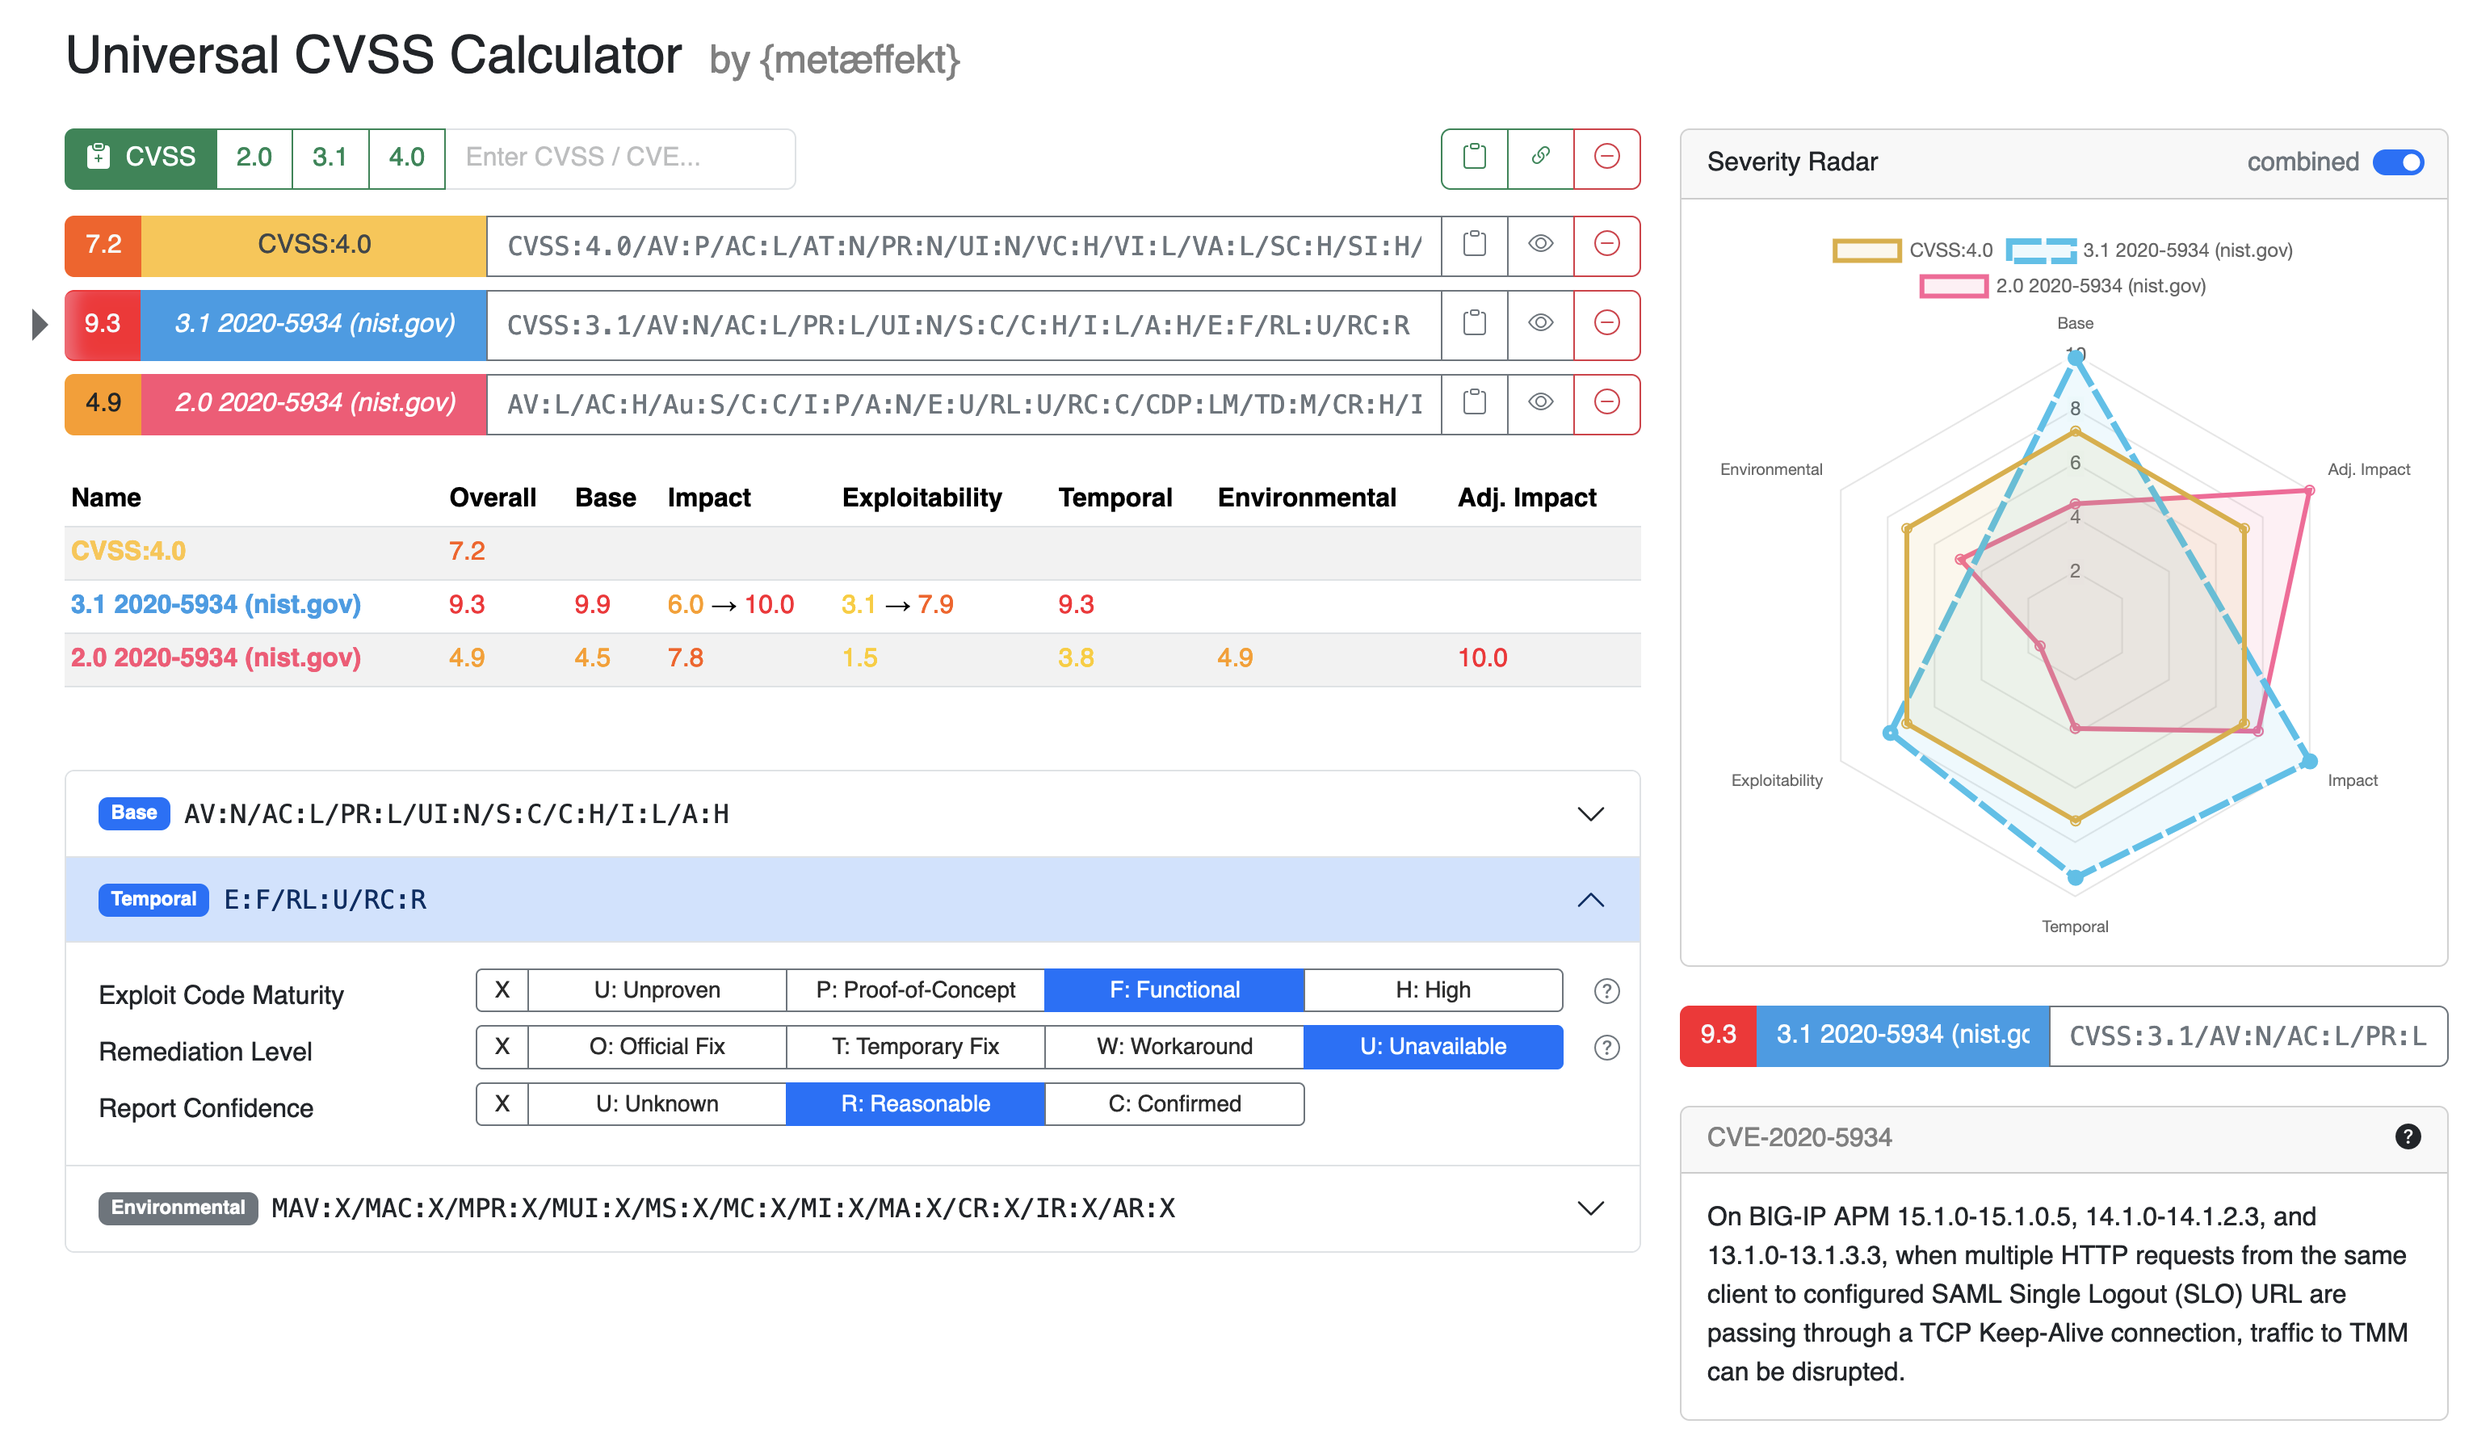
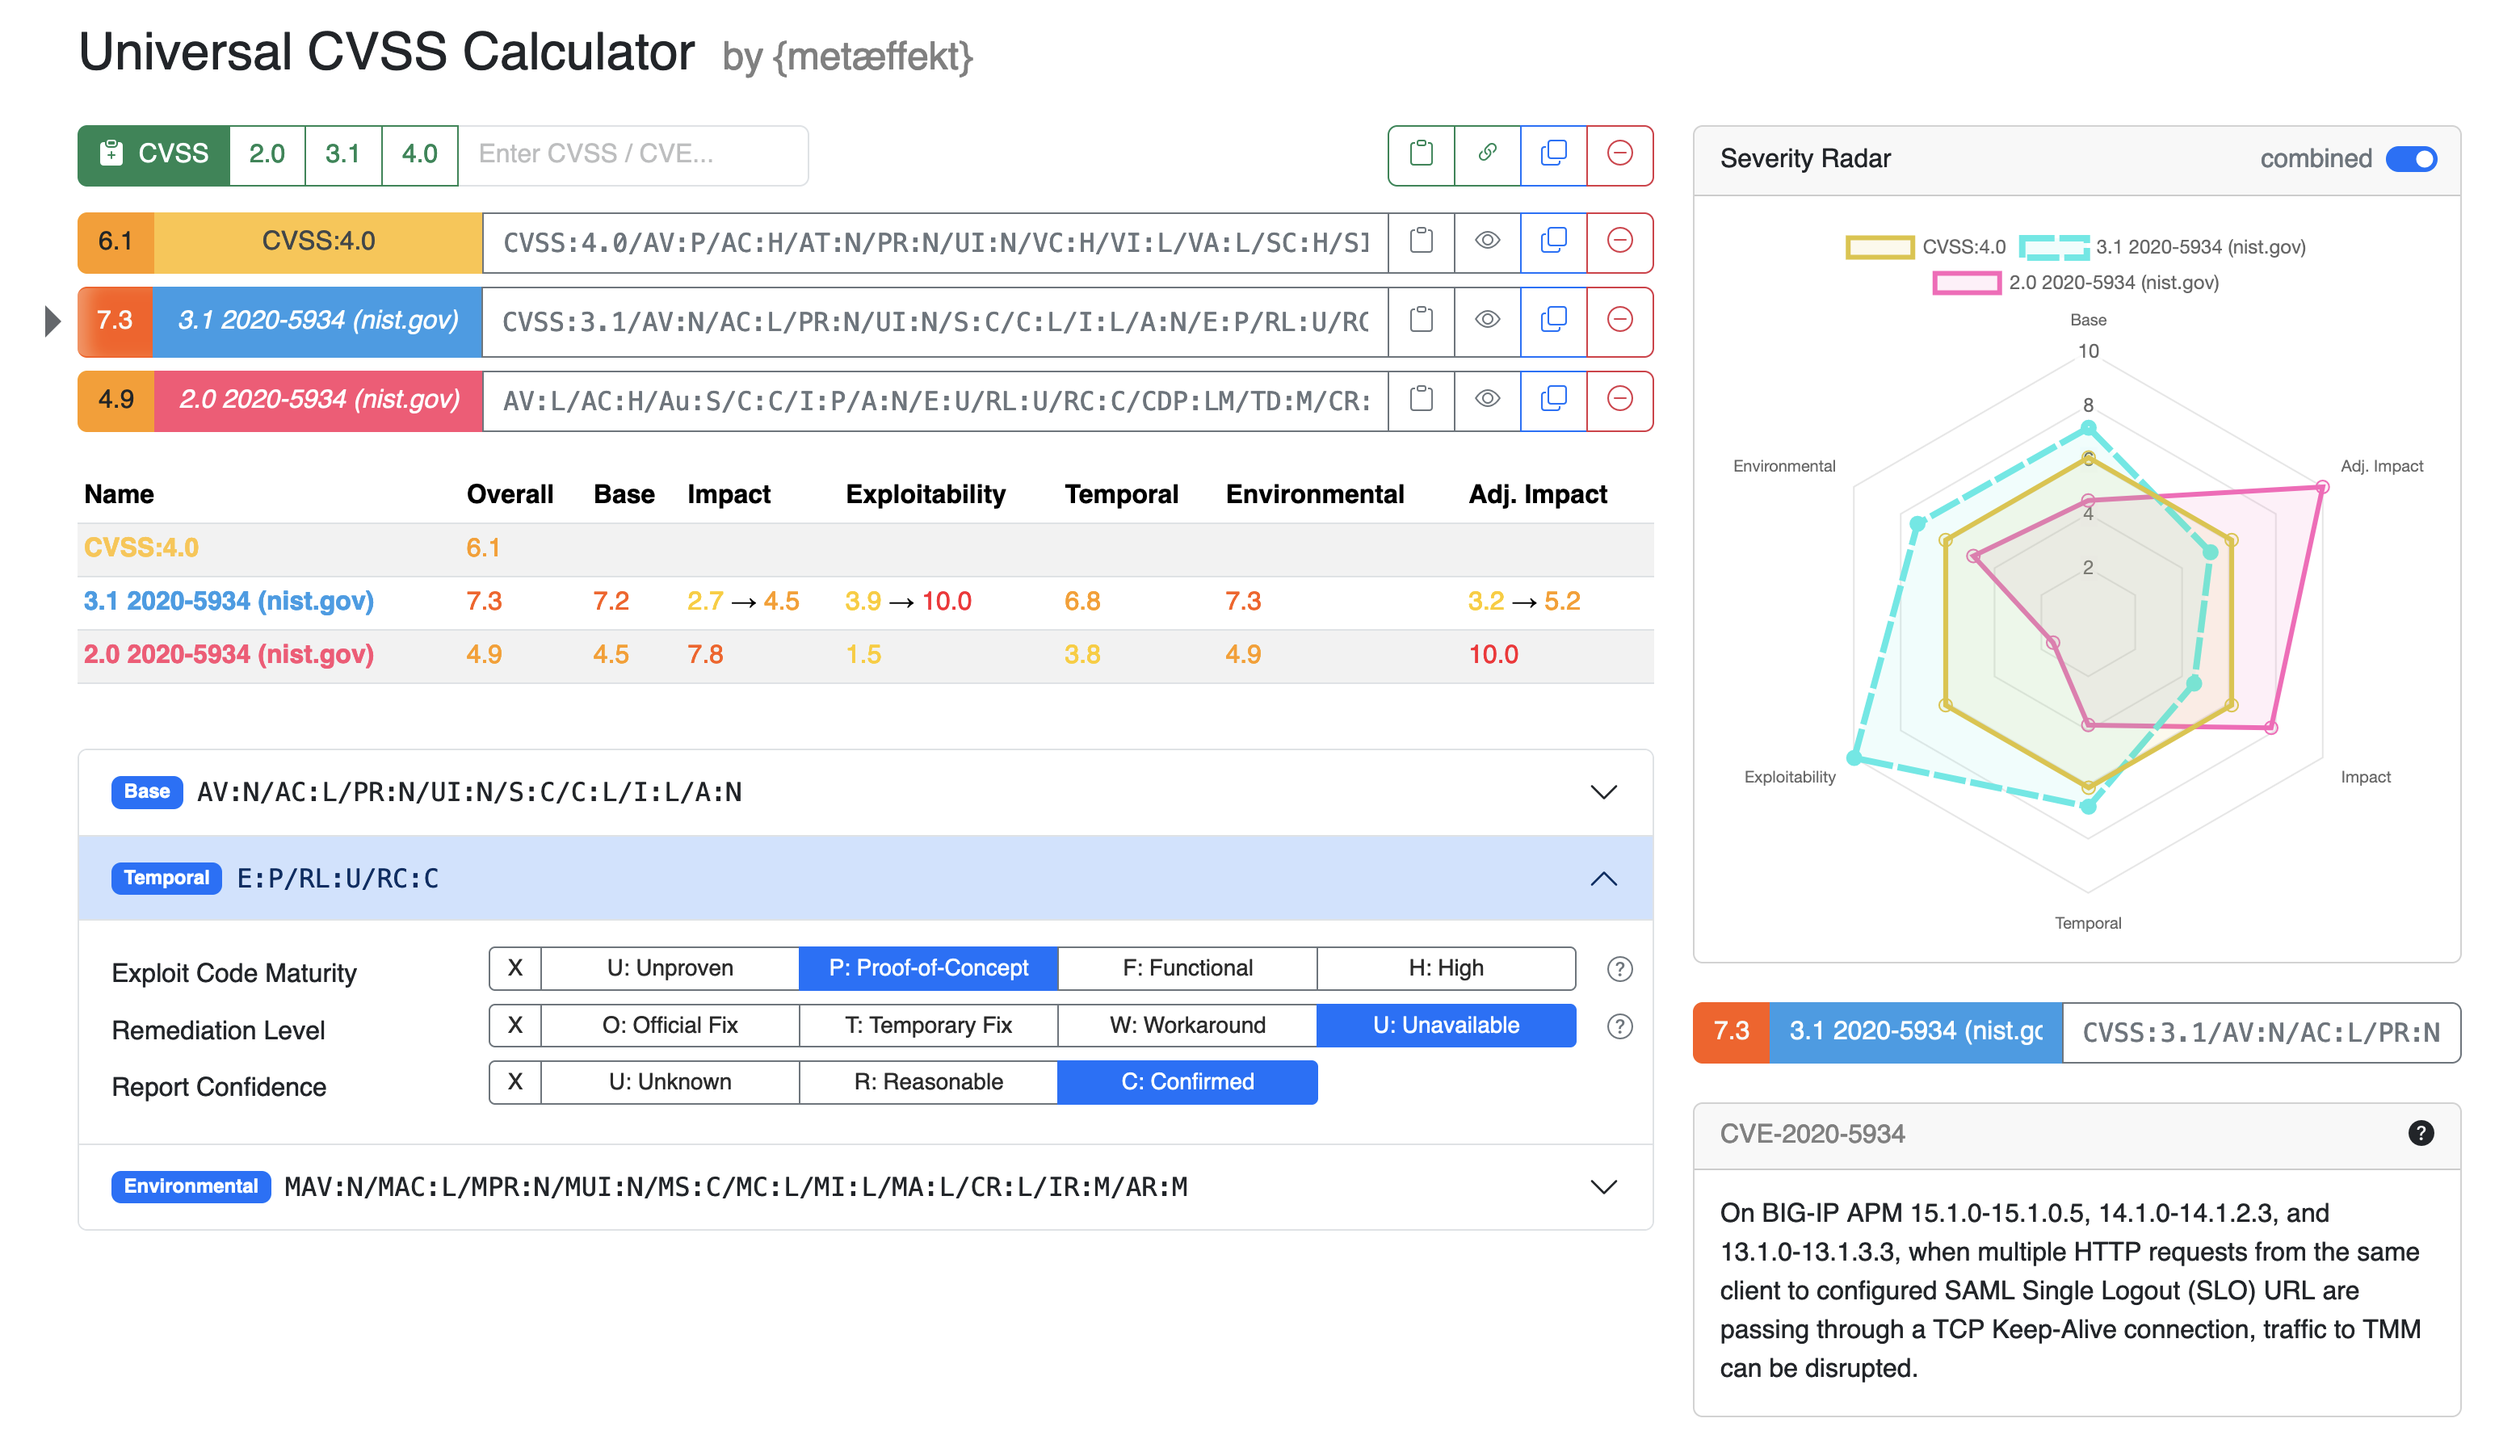
- Interpolation of undefined environmental/temporal scores in the radar chart will now use base scores rather than being an interpolated value between neighboring scores. - Changed the color randomization algorithm for the radar chart to make them independent of the vector names and rather use a uni

diff --git a/site/js/scripts.js b/site/js/scripts.js
@@ -13,6 +13,7 @@
  * See the License for the specific language governing permissions and
  * limitations under the License.
  */
+
 class CvssVectorRepresentation {
 
     constructor(name, cvssInstance, shown) {
@@ -483,6 +484,7 @@ const cvss3P1SeverityRadarContainer = document.getElementById('CVSS:3.1SeverityR
 const cvss2P0SeverityRadarContainer = document.getElementById('CVSS:2.0SeverityRadarContainer');
 
 const cvssVectors = [];
+let chartInterpolationMethod = 'base'; // interpolated | base
 
 severityRadarToggleContainer.addEventListener('click', () => {
     updateScores();
@@ -673,6 +675,18 @@ function capitalizeFirstLetter(string) {
     return string.charAt(0).toUpperCase() + string.slice(1);
 }
 
+function interpolateChartScoresBaseScores(scores) {
+    if (isNotDefined(scores.environmental) && scores.base) {
+        scores.environmental = scores.base;
+    }
+    if (isNotDefined(scores.modifiedImpact) && scores.impact) {
+        scores.modifiedImpact = scores.impact;
+    }
+    if (isNotDefined(scores.temporal) && scores.base) {
+        scores.temporal = scores.base;
+    }
+}
+
 function interpolateChartScores(scores) {
     if (isNotDefined(scores.environmental) && scores.base && scores.exploitability) {
         scores.environmental = createInterpolationPoint(scores.base, scores.exploitability);
@@ -857,24 +871,33 @@ function updateScores() {
             cveDetailsDisplayCard.classList.add('d-none');
         }
 
+        // now update the charts and the score table
         const datasets = {'default': [], 'CVSS:2.0': [], 'CVSS:3.1': [], 'CVSS:4.0': []};
         const useVersionedCharts = !document.getElementById('severityRadarToggle').checked;
 
+        const calculatedVectorScores = {};
+        const calculatedNormalizedVectorScores = {};
         for (let vector of cvssVectors) {
-            const scores = vector.cvssInstance.calculateScores(true);
+            calculatedVectorScores[vector.uniqueId] = vector.cvssInstance.calculateScores(false);
+            calculatedNormalizedVectorScores[vector.uniqueId] = vector.cvssInstance.calculateScores(true);
+        }
+
+        for (let vector of cvssVectors) {
+            const scores = calculatedVectorScores[vector.uniqueId];
+            const normalizedScores = calculatedNormalizedVectorScores[vector.uniqueId];
             const vectorName = vector.cvssInstance.getVectorName();
 
             if (vector.cvssInstance instanceof CvssCalculator.Cvss4P0) {
-                scores.base = scores.overall;
-                scores.impact = scores.overall;
-                scores.exploitability = scores.overall;
-                scores.modifiedImpact = scores.overall;
-                scores.temporal = scores.overall;
-                scores.environmental = scores.overall;
+                normalizedScores.base = normalizedScores.overall;
+                normalizedScores.impact = normalizedScores.overall;
+                normalizedScores.exploitability = normalizedScores.overall;
+                normalizedScores.modifiedImpact = normalizedScores.overall;
+                normalizedScores.temporal = normalizedScores.overall;
+                normalizedScores.environmental = normalizedScores.overall;
             }
 
-            if (!isNotDefined(scores.overall)) {
-                const severityRange = severityRangeColorFinder(scores.overall);
+            if (!isNotDefined(normalizedScores.overall)) {
+                const severityRange = severityRangeColorFinder(normalizedScores.overall);
                 vector.scoreDisplayButton.classList.remove('bg-pastel-gray', 'bg-strong-yellow', 'bg-strong-light-orange', 'bg-strong-dark-orange', 'bg-strong-red');
                 vector.scoreDisplayButton.classList.add('bg-' + severityRange.color);
                 vector.scoreDisplayButton.setAttribute('data-bs-toggle', 'popover');
@@ -883,11 +906,11 @@ function updateScores() {
                 vector.scoreDisplayButton.setAttribute('data-bs-content', '<b>' + severityRange.severity + '</b><br><small>Drag to reorder</small>');
                 vector.scoreDisplayButton.setAttribute('data-bs-trigger', 'hover');
 
-                if (scores.overall === 0 && !vector.cvssInstance.isBaseFullyDefined()) {
+                if (normalizedScores.overall === 0 && !vector.cvssInstance.isBaseFullyDefined()) {
                     vector.scoreDisplayButton.innerHTML = '<i class="bi bi-exclamation-triangle-fill"></i>';
                     vector.scoreDisplayButton.setAttribute('data-bs-content', 'All base metrics must be defined to calculate CVSS scores.');
-                } else if (scores.overall !== 10) {
-                    vector.scoreDisplayButton.innerText = scores.overall.toFixed(1);
+                } else if (normalizedScores.overall !== 10) {
+                    vector.scoreDisplayButton.innerText = normalizedScores.overall.toFixed(1);
                 } else {
                     vector.scoreDisplayButton.innerText = '10';
                 }
@@ -897,9 +920,13 @@ function updateScores() {
             }
 
             // chart
-            const isPointDefined = [scores.base, scores.modifiedImpact, scores.impact, scores.temporal, scores.exploitability, scores.environmental].map(v => isNaN(v) ? 0 : 3);
+            const isPointDefined = [normalizedScores.base, normalizedScores.modifiedImpact, normalizedScores.impact, normalizedScores.temporal, normalizedScores.exploitability, normalizedScores.environmental].map(v => isNaN(v) ? 0 : (selectedVector === vector.cvssInstance ? 3 : 4));
 
-            interpolateChartScores(scores);
+            if (chartInterpolationMethod === 'interpolated') {
+                interpolateChartScores(normalizedScores);
+            } else {
+                interpolateChartScoresBaseScores(normalizedScores);
+            }
 
             let color = [180, 48, 52];
             if (vectorName === 'CVSS:2.0') {
@@ -911,15 +938,13 @@ function updateScores() {
             }
 
             // modify the color a bit randomly seeded based on the vector.getName() to make it more distinguishable
-            let seed = vector.name.split('').reduce((acc, cur) => acc + cur.charCodeAt(0), 0);
-            seed += 1;
-            seed = seed % 30;
-            if (seed % 2 === 0) seed *= -1;
-            color[0] = (color[0] + seed) % 360;
+            let seed = vector.uniqueId.split('').reduce((acc, cur) => acc + cur.charCodeAt(0), 0);
+            seed = ((seed % 60) - 30);
+            color[0] = (color[0] + seed + 360) % 360;
 
             const dataset = {
                 label: vector.name,
-                data: [scores.base, scores.modifiedImpact, scores.impact, scores.temporal, scores.exploitability, scores.environmental],
+                data: [normalizedScores.base, normalizedScores.modifiedImpact, normalizedScores.impact, normalizedScores.temporal, normalizedScores.exploitability, normalizedScores.environmental],
                 backgroundColor: `hsla(${color[0]},${color[1]}%,${color[2]}%,0.1)`,
                 borderColor: `hsl(${color[0]},${color[1]}%,${color[2]}%)`,
                 pointRadius: isPointDefined,
@@ -1032,7 +1057,7 @@ Security requirements: ${securityRequirements}`;
         let hasEnvironmental = false;
         let hasModifiedImpact = false;
         for (let vector of cvssVectors) {
-            const scores = vector.cvssInstance.calculateScores();
+            const scores = calculatedVectorScores[vector.uniqueId];
             if (!hasOverall && scores.overall !== undefined) hasOverall = true;
             if (!hasBase && scores.base !== undefined) hasBase = true;
             if (!hasImpact && scores.impact !== undefined) hasImpact = true;
@@ -1090,8 +1115,8 @@ Security requirements: ${securityRequirements}`;
         appendHeaderCellIfPresent('Adj. Impact', hasModifiedImpact);
 
         for (let vector of cvssVectors) {
-            const scores = vector.cvssInstance.calculateScores(false);
-            const normalizedScores = vector.cvssInstance.calculateScores(true);
+            const scores = calculatedVectorScores[vector.uniqueId];
+            const normalizedScores = calculatedNormalizedVectorScores[vector.uniqueId];
             const row = document.createElement('tr');
             tbody.appendChild(row);
 

diff --git a/site/index.html b/site/index.html
@@ -262,7 +262,7 @@ limitations under the License.
             <div class="col-lg-2 mb-2">
                 <i class="bi bi-braces-asterisk me-1"></i>
                 <a data-bs-toggle="modal" data-bs-target="#changelogModal" href="#" class="footer-link">
-                    1.0.10 <span style="opacity: 40%">&nbsp;(2024-01-25)</span>
+                    1.0.11 <span style="opacity: 40%">&nbsp;(2024-01-26)</span>
                 </a>
             </div>
         </div>
@@ -633,6 +633,19 @@ Copyright:
                 <button type="button" class="btn-close" data-bs-dismiss="modal" aria-label="Close"></button>
             </div>
             <div class="modal-body">
+                <h5>Version 1.0.11 <span class="fs-6 text-secondary ms-2">2024-01-26</span></h5>
+                <ul>
+                    <li>
+                        Interpolation of undefined environmental/temporal scores in the radar chart will now use base
+                        scores rather than being an interpolated value between neighboring scores.
+                    </li>
+                    <li>
+                        Changed the color randomization algorithm for the radar chart to make them independent of the
+                        vector names and rather use a unique color per vector instance.
+                    </li>
+                    <li>Improved performance by caching calculated score values within one change iteration.</li>
+                </ul>
+                <hr>
                 <h5>Version 1.0.10 <span class="fs-6 text-secondary ms-2">2024-01-25</span></h5>
                 <ul>
                     <li>Added ability to drag and drop CVSS vector list elements to rearrange them.</li>

diff --git a/ae-cvss-calculator/src/cvss3p1/Cvss3P1.ts b/ae-cvss-calculator/src/cvss3p1/Cvss3P1.ts
@@ -44,9 +44,25 @@ export class Cvss3P1 extends CvssVector<MultiScoreResult> {
     }
 
     fillRandomBaseVector(): void {
-        const baseCategoryComponents = Cvss3P1Components.BASE_CATEGORY_VALUES;
-        for (let i = 0; i < baseCategoryComponents.length; i++) {
-            const component = baseCategoryComponents[i];
+        this.fillRandomComponentsForCategory(Cvss3P1Components.BASE_CATEGORY);
+    }
+
+    fillRandomTemporalVector(): void {
+        this.fillRandomComponentsForCategory(Cvss3P1Components.TEMPORAL_CATEGORY);
+    }
+
+    fillRandomEnvironmentalVector(): void {
+        this.fillRandomComponentsForCategory(Cvss3P1Components.ENVIRONMENTAL_CATEGORY);
+    }
+
+    fillRandomComponentsForCategory(category: ComponentCategory): void {
+        const categoryComponents = Cvss3P1Components.REGISTERED_COMPONENTS.get(category);
+        if (!categoryComponents) {
+            console.warn('Failed to pick random vector components for', category);
+            return;
+        }
+        for (let i = 0; i < categoryComponents.length; i++) {
+            const component = categoryComponents[i];
             const value = super.pickRandomDefinedComponentValue(component);
             if (value) {
                 this.applyComponent(component, value);
